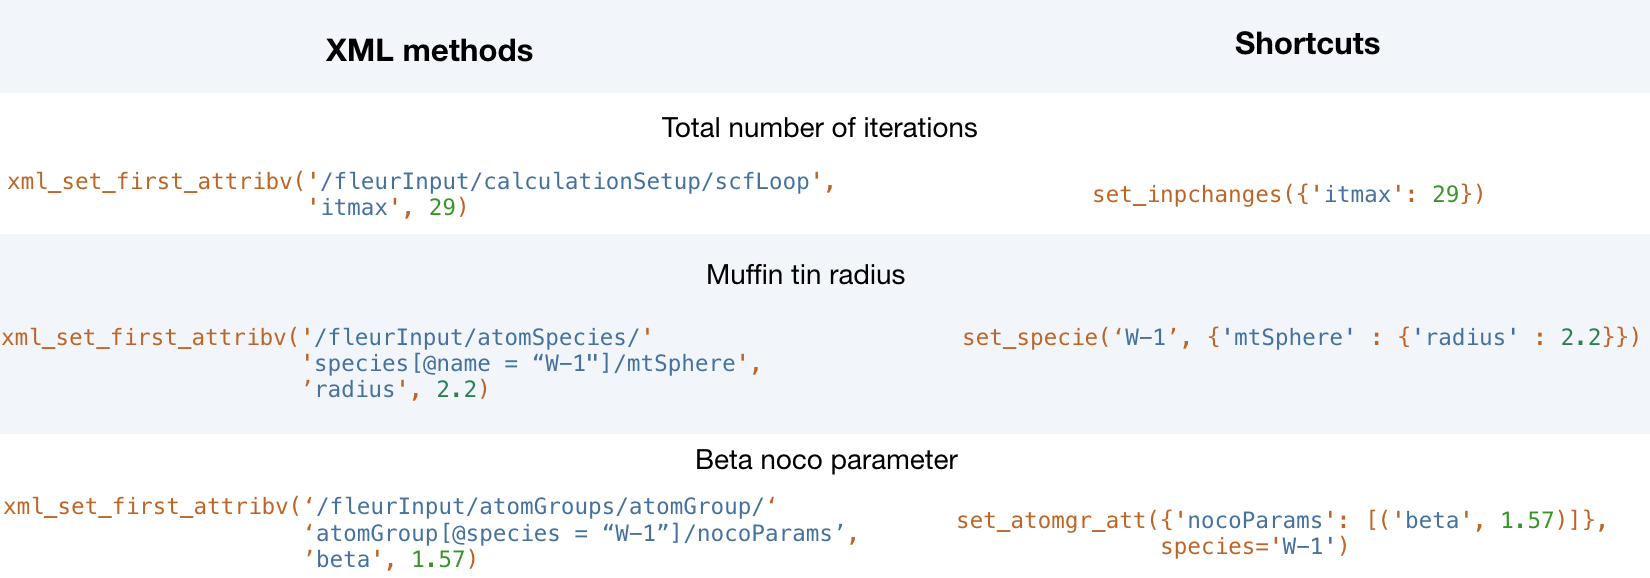
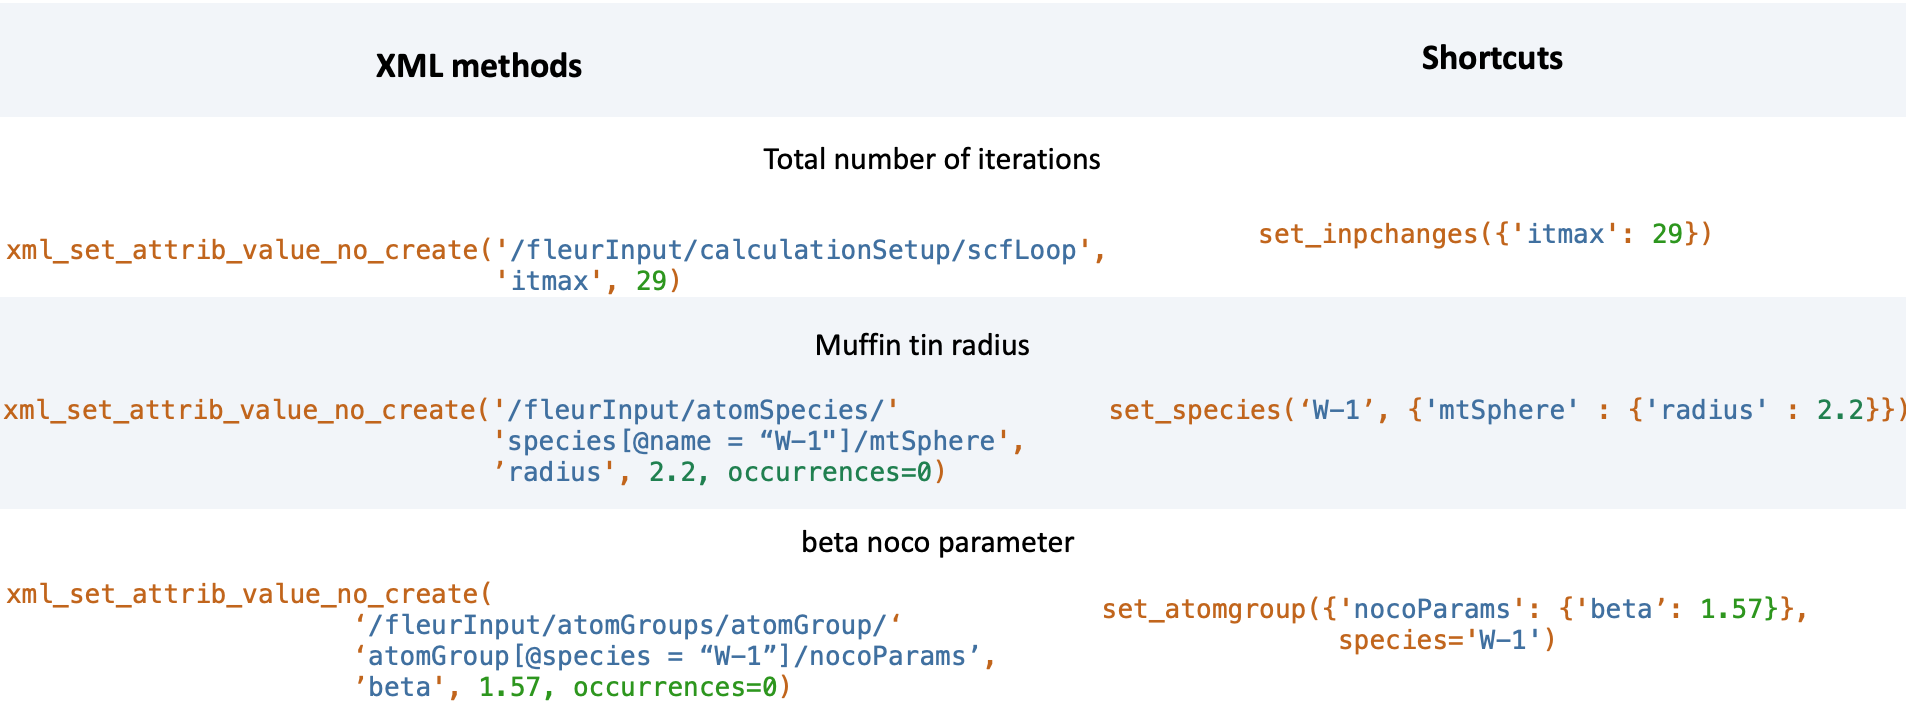
Update fleurinpmodifier documentation

diff --git a/docs/source/user_guide/data/fleurinp_modifier.rst b/docs/source/user_guide/data/fleurinp_modifier.rst
@@ -80,38 +80,28 @@ The registration methods can be separated into two groups. First of all,
 there are XML methods that require deeper knowledge about the structure of an ``inp.xml`` file.
 All of them require an xpath input:
 
-    * :py:func:`~aiida_fleur.data.fleurinpmodifier.FleurinpModifier.xml_set_attribv_occ()`: Set an
-      attribute of a specific occurrence of xml elements
-    * :py:func:`~aiida_fleur.data.fleurinpmodifier.FleurinpModifier.xml_set_first_attribv()`: Set
-      an attribute of first occurrence of xml element
-    * :py:func:`~aiida_fleur.data.fleurinpmodifier.FleurinpModifier.xml_set_all_attribv()`: Set
-      attributes of all occurrences of the xml element
-    * :py:func:`~aiida_fleur.data.fleurinpmodifier.FleurinpModifier.xml_set_text()`: Set the text
-      of first occurrence of xml element
-    * :py:func:`~aiida_fleur.data.fleurinpmodifier.FleurinpModifier.xml_set_text_occ()`: Set
-      an attribute of a specific occurrence of xml elements
-    * :py:func:`~aiida_fleur.data.fleurinpmodifier.FleurinpModifier.xml_set_all_text()`: Set
-      the text of all occurrences of the xml element
-    * :py:func:`~aiida_fleur.data.fleurinpmodifier.FleurinpModifier.create_tag()`: Insert
+    * :py:func:`~aiida_fleur.data.fleurinpmodifier.FleurinpModifier.xml_set_attrib_value_no_create()`: Set an
+      attribute on the specified xml elements to the specified value(s). The ``occurrences`` argument can be used to select, which occurences to modify
+    * :py:func:`~aiida_fleur.data.fleurinpmodifier.FleurinpModifier.xml_set_text_no_create()`: Set the
+      text on the specified xml elements to the specified value(s). The ``occurrences`` argument can be used to select, which occurences to modify
+    * :py:func:`~aiida_fleur.data.fleurinpmodifier.FleurinpModifier.xml_create_tag()`: Insert
       an xml element in the xml tree.
-    * :py:func:`~aiida_fleur.data.fleurinpmodifier.FleurinpModifier.delete_att()`: Delete
-      an attribute for xml elements from the xpath evaluation.
-    * :py:func:`~aiida_fleur.data.fleurinpmodifier.FleurinpModifier.delete_tag()`: Delete
-      an xml element.
-    * :py:func:`~aiida_fleur.data.fleurinpmodifier.FleurinpModifier.replace_tag()`: Replace
-      an xml element.
-    * :py:func:`~aiida_fleur.data.fleurinpmodifier.FleurinpModifier.add_num_to_att()`: Adds
-      a value or multiplies on it given attribute.
+    * :py:func:`~aiida_fleur.data.fleurinpmodifier.FleurinpModifier.xml_replace_tag()`: Replace
+      an xml element in the xml tree.
+    * :py:func:`~aiida_fleur.data.fleurinpmodifier.FleurinpModifier.xml_delete_tag()`: Delete
+      an xml element in the xml tree.
+    * :py:func:`~aiida_fleur.data.fleurinpmodifier.FleurinpModifier.xml_delete_att()`: Delete an attribute on
+      a xml element in the xml tree.
 
 On the other hand, there are shortcut methods that already know some paths:
 
     * :py:func:`~aiida_fleur.data.fleurinpmodifier.FleurinpModifier.set_species()`: Specific
       user-friendly method to change species parameters.
-    * :py:func:`~aiida_fleur.data.fleurinpmodifier.FleurinpModifier.set_atomgr_att()`:  Specific
+    * :py:func:`~aiida_fleur.data.fleurinpmodifier.FleurinpModifier.set_atomgroup()`:  Specific
       method to change atom group parameters.
     * :py:func:`~aiida_fleur.data.fleurinpmodifier.FleurinpModifier.set_species_label()`: Specific
       user-friendly method to change a specie of an atom with a certain label.
-    * :py:func:`~aiida_fleur.data.fleurinpmodifier.FleurinpModifier.set_atomgr_att_label()`:  Specific
+    * :py:func:`~aiida_fleur.data.fleurinpmodifier.FleurinpModifier.set_atomgroup_label()`:  Specific
       method to change atom group parameters of an atom with a certain label.
     * :py:func:`~aiida_fleur.data.fleurinpmodifier.FleurinpModifier.set_inpchanges()`: Specific
       user-friendly method for easy changes of attribute key value type.
@@ -120,15 +110,49 @@ On the other hand, there are shortcut methods that already know some paths:
     * :py:func:`~aiida_fleur.data.fleurinpmodifier.FleurinpModifier.shift_value_species_label()`: Specific
       user-friendly method to shift value of an attribute of an atom with a certain label.
     * :py:func:`~aiida_fleur.data.fleurinpmodifier.FleurinpModifier.set_nkpts()`: Specific
-      method to set the number of kpoints.
+      method to set the number of kpoints. **(Only for Max4 and earlier)**
+    * :py:func:`~aiida_fleur.data.fleurinpmodifier.FleurinpModifier.set_kpath()`: Specific
+      method to set a kpoint path for bandstructures **(Only for Max4 and earlier)**
+    * :py:func:`~aiida_fleur.data.fleurinpmodifier.FleurinpModifier.set_kpointlist()`: Specific
+      method to set the used kpoints via a array of coordinates and weights
+    * :py:func:`~aiida_fleur.data.fleurinpmodifier.FleurinpModifier.switch_kpointset()`: Specific
+      method to switch the used kpoint set. **(Only for Max5 and later)**
+    * :py:func:`~aiida_fleur.data.fleurinpmodifier.FleurinpModifier.set_attrib_value()`: user-friendly method for setting attributes in the xml file by specifying their name
+    * :py:func:`~aiida_fleur.data.fleurinpmodifier.FleurinpModifier.set_first_attrib_value()`: user-friendly method for setting the first occurrence of an attribute in the xml file by specifying its name
+    * :py:func:`~aiida_fleur.data.fleurinpmodifier.FleurinpModifier.add_number_to_attrib()`: user-friendly method for adding to or multiplying values of attributes in the xml file by specifying their name
+    * :py:func:`~aiida_fleur.data.fleurinpmodifier.FleurinpModifier.add_number_to_first_attrib()`: user-friendly method for adding to or multiplying values of the first occurrence of the attribute in the xml file by specifying their name
+    * :py:func:`~aiida_fleur.data.fleurinpmodifier.FleurinpModifier.set_text()`: user-friendly method for setting text on xml elements in the xml file by specifying their name
+    * :py:func:`~aiida_fleur.data.fleurinpmodifier.FleurinpModifier.set_first_text()`: user-friendly method for setting the text on the first occurrence of an xml element in the xml file by specifying its name
+    * :py:func:`~aiida_fleur.data.fleurinpmodifier.FleurinpModifier.set_simple_tag()`: user-friendly method for creating and setting attributes on simple xml elements (only attributes) in the xml file by specifying its name
+    * :py:func:`~aiida_fleur.data.fleurinpmodifier.FleurinpModifier.set_complex_tag()`: user-friendly method for creating complex tags in the xml file by specifying its name
+    * :py:func:`~aiida_fleur.data.fleurinpmodifier.FleurinpModifier.create_tag()`: User-friendly method for inserting a tag in the right place by specifying it's name
+    * :py:func:`~aiida_fleur.data.fleurinpmodifier.FleurinpModifier.delete_tag()`: User-friendly method for delete a tag by specifying it's name
+    * :py:func:`~aiida_fleur.data.fleurinpmodifier.FleurinpModifier.delete_att()`: User-friendly method for deleting an attribute from a tag by specifying it's name
+    * :py:func:`~aiida_fleur.data.fleurinpmodifier.FleurinpModifier.replace_tag()`: User-friendly method for replacing a tag by another by specifying its name
     * :py:func:`~aiida_fleur.data.fleurinpmodifier.FleurinpModifier.set_nmmpmat()`: Specific 
       method for initializing or modifying the density matrix file for a LDA+U calculation (details see below)
+    * :py:func:`~aiida_fleur.data.fleurinpmodifier.FleurinpModifier.rotate_nmmpmat()`: Specific 
+      method for rotating a block of the density matrix file for a LDA+U calculation (details see below) in real space
 
 The figure below shows a comparison between the use of XML and shortcut methods.
 
 .. image:: images/registration_methods.png
     :width: 100%
     :align: center
+
+.. warning:: Deprecated XML modification methods
+
+    After the `aiida-fleur` release ``1.1.4`` the FleurinpModifier was restructured to enhance it's capabilities and to make it more robust. During this process several modification functions were renamed or deprecated. Even though all the old usage is still supported it is encouraged to switch to the new method names and behaviours:
+
+    * :py:func:`~aiida_fleur.data.fleurinpmodifier.FleurinpModifier.xml_set_attribv_occ()`, :py:func:`~aiida_fleur.data.fleurinpmodifier.FleurinpModifier.xml_set_all_attribv()` and :py:func:`~aiida_fleur.data.fleurinpmodifier.FleurinpModifier.xml_set_first_attribv()` are unified in the method :py:func:`~aiida_fleur.data.fleurinpmodifier.FleurinpModifier.xml_set_attrib_value_no_create()`. However, these functions **can no longer create missing subtags**
+    * :py:func:`~aiida_fleur.data.fleurinpmodifier.FleurinpModifier.xml_set_text_occ()`, :py:func:`~aiida_fleur.data.fleurinpmodifier.FleurinpModifier.xml_set_all_text()` and :py:func:`~aiida_fleur.data.fleurinpmodifier.FleurinpModifier.xml_set_text()` are unified in the method :py:func:`~aiida_fleur.data.fleurinpmodifier.FleurinpModifier.xml_set_text_no_create()`. However, these functions **can no longer create missing subtags**
+    * :py:func:`~aiida_fleur.data.fleurinpmodifier.FleurinpModifier.create_tag()` is now a higher-level function. The old function requiring an xpath is now called :py:func:`~aiida_fleur.data.fleurinpmodifier.FleurinpModifier.xml_create_tag()`
+    * :py:func:`~aiida_fleur.data.fleurinpmodifier.FleurinpModifier.replace_tag()` is now a higher-level function. The old function requiring an xpath is now called :py:func:`~aiida_fleur.data.fleurinpmodifier.FleurinpModifier.xml_replace_tag()`
+    * :py:func:`~aiida_fleur.data.fleurinpmodifier.FleurinpModifier.delete_tag()` is now a higher-level function. The old function requiring an xpath is now called :py:func:`~aiida_fleur.data.fleurinpmodifier.FleurinpModifier.xml_delete_tag()`
+    * :py:func:`~aiida_fleur.data.fleurinpmodifier.FleurinpModifier.delete_att()` is now a higher-level function. The old function requiring an xpath is now called :py:func:`~aiida_fleur.data.fleurinpmodifier.FleurinpModifier.xml_delete_att()`
+      an xml element in the xml tree.
+    * :py:func:`~aiida_fleur.data.fleurinpmodifier.FleurinpModifier.add_num_to_att()` was renamed to :py:func:`~aiida_fleur.data.fleurinpmodifier.FleurinpModifier.add_number_to_attrib()` or :py:func:`~aiida_fleur.data.fleurinpmodifier.FleurinpModifier.add_number_to_first_attrib()`. However, these are also higher-level functions now longer requiring a concrete xpath
+    * :py:func:`~aiida_fleur.data.fleurinpmodifier.FleurinpModifier.set_atomgr_att()` and :py:func:`~aiida_fleur.data.fleurinpmodifier.FleurinpModifier.set_atomgr_att_label()` were renamed to :py:func:`~aiida_fleur.data.fleurinpmodifier.FleurinpModifier.set_atomgroup()` and :py:func:`~aiida_fleur.data.fleurinpmodifier.FleurinpModifier.set_atomgroup_label()`. These functions now also take the changes in the form ``attributedict={'nocoParams':{'beta': val}}`` instead of ``attributedict={'nocoParams':[('beta': val)]}``
 
 Modifying the density matrix for LDA+U calculations
 ---------------------------------------------------
